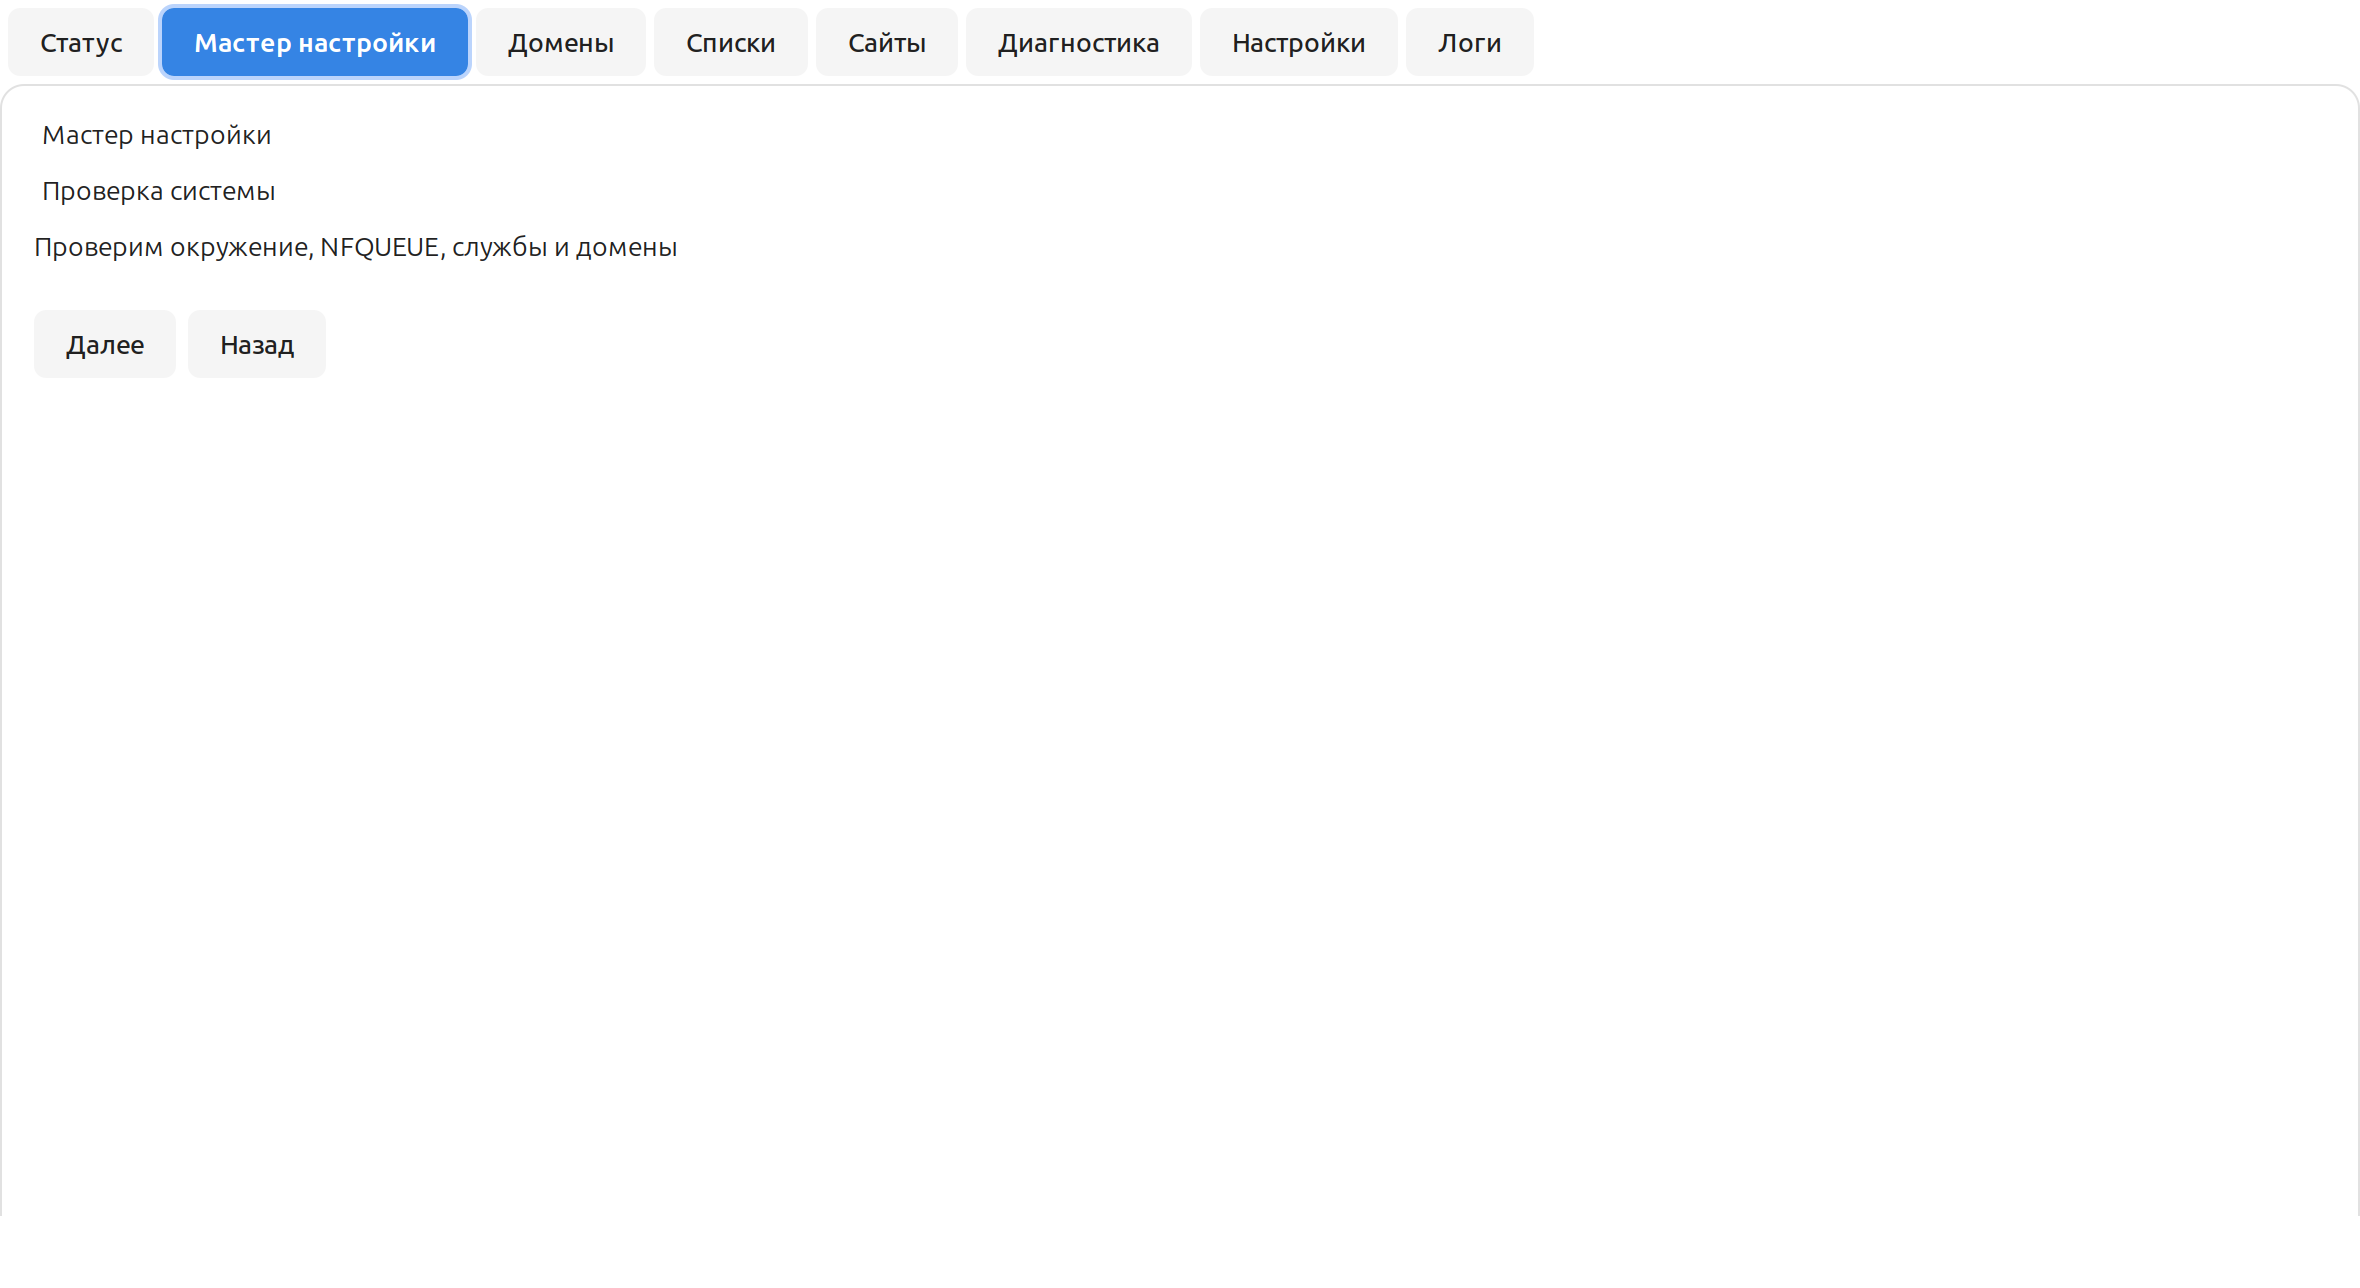
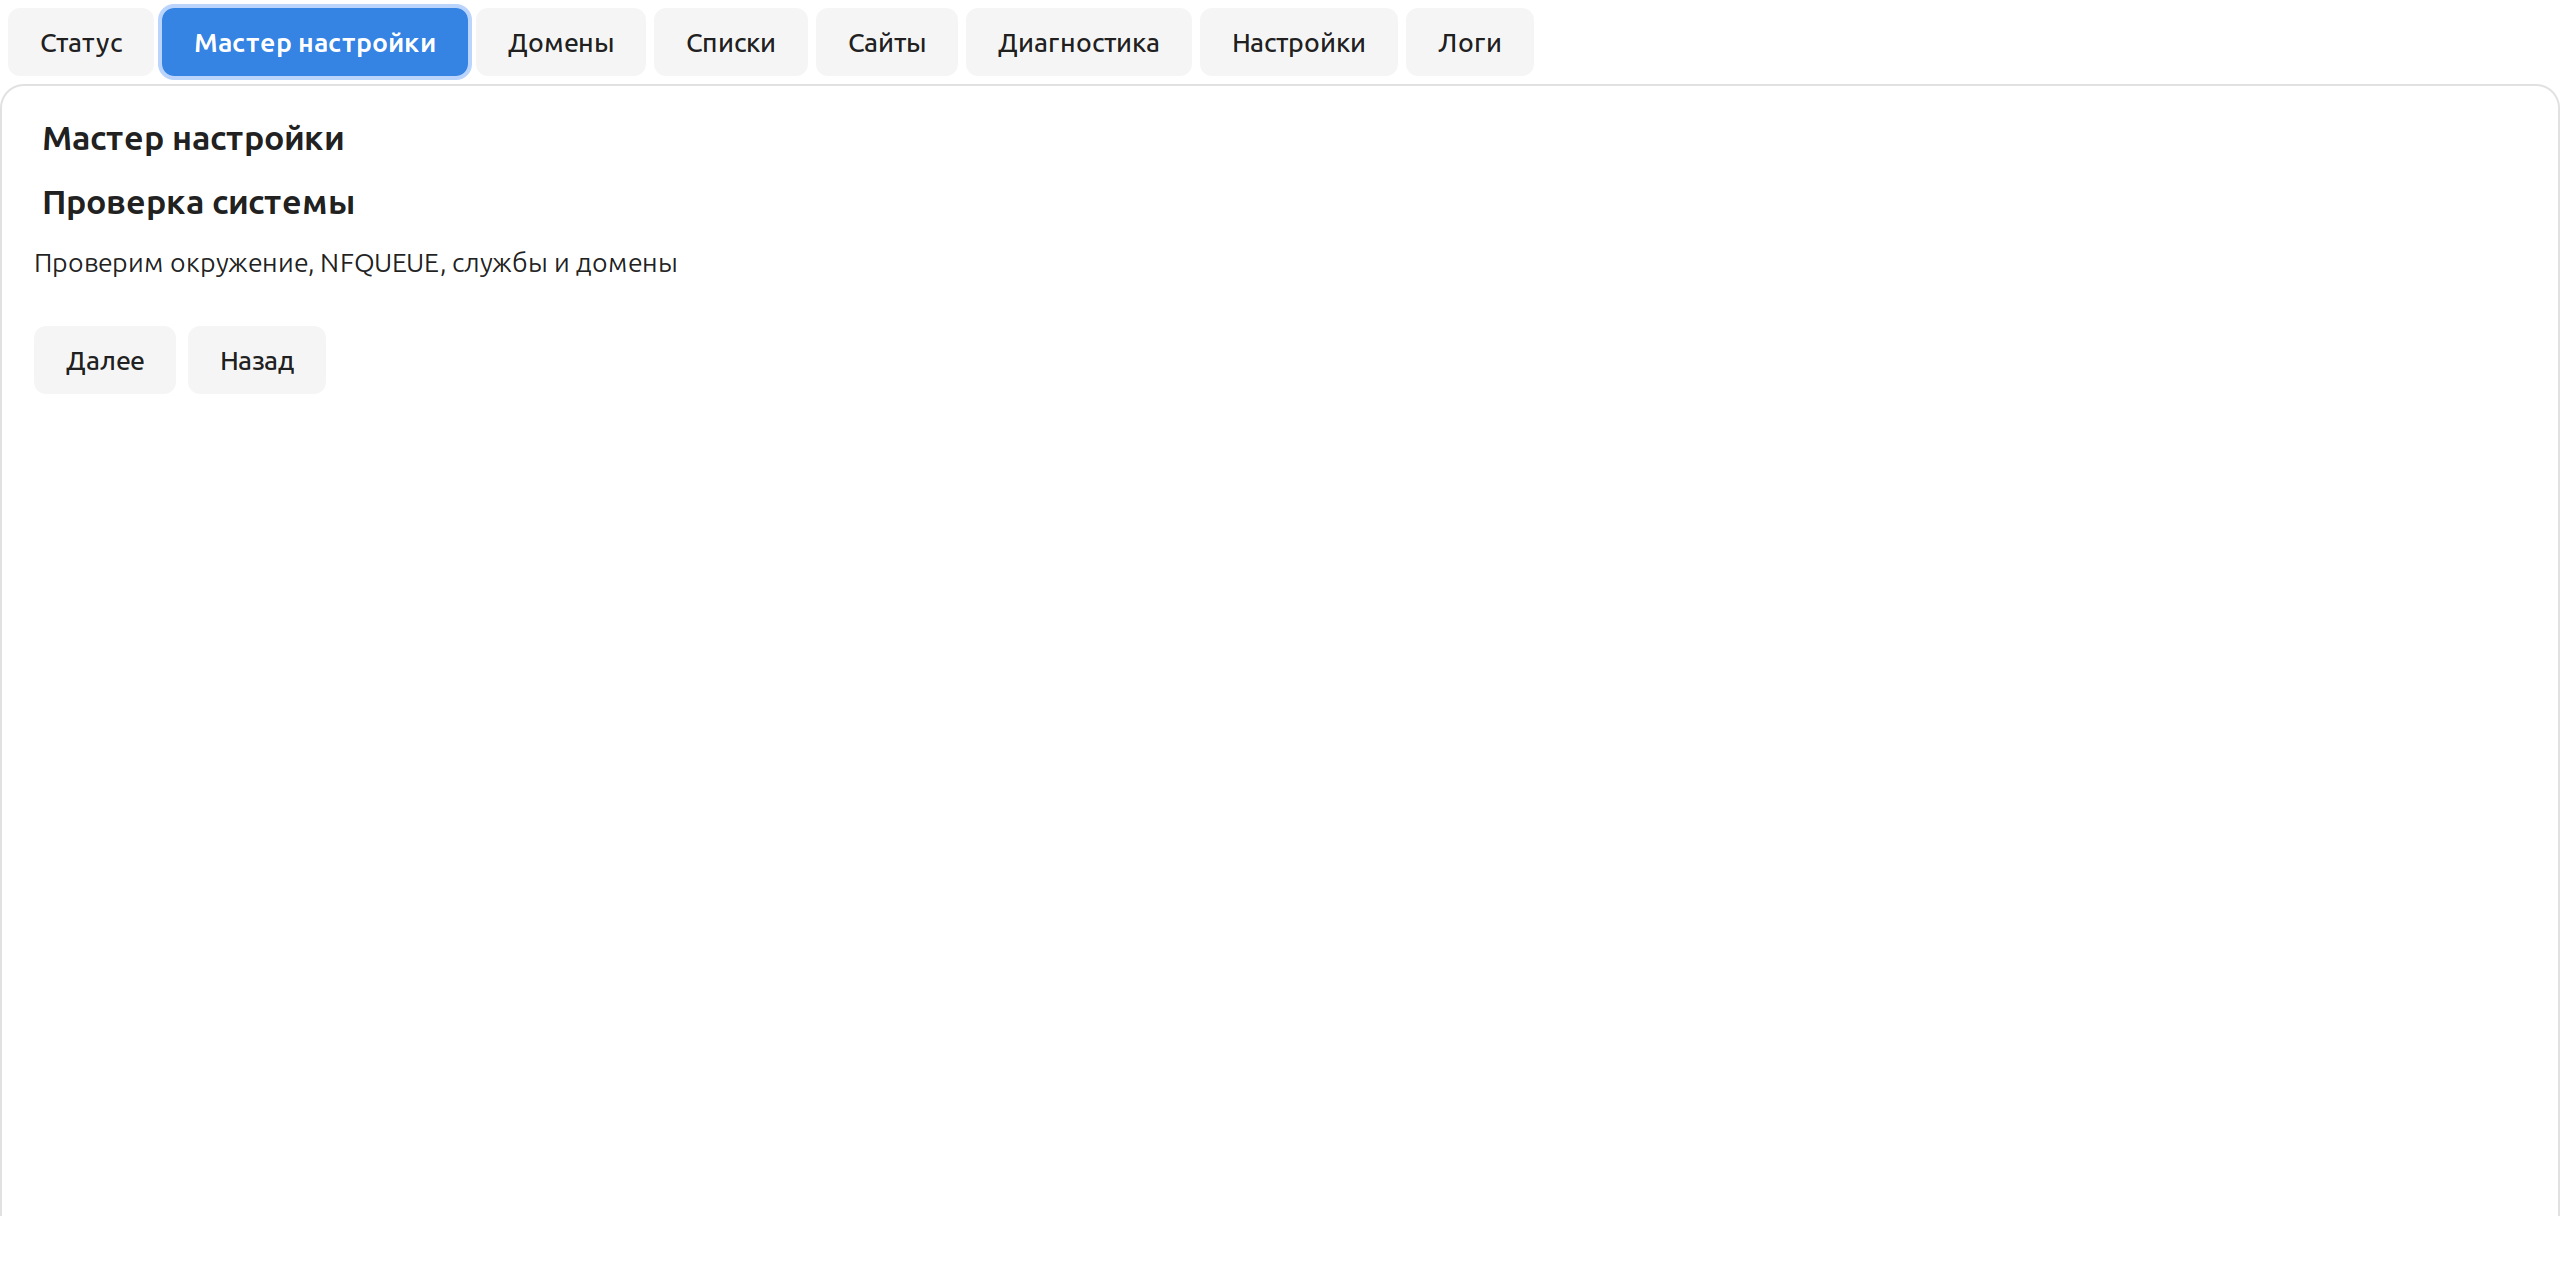
0.6.16: README и скриншоты приведены к актуальному состоянию

diff --git a/src/linfix/__init__.py b/src/linfix/__init__.py
@@ -2,7 +2,7 @@
 
 from __future__ import annotations
 
-__version__ = "0.6.15"
+__version__ = "0.6.16"
 APP_NAME = "linfix"
 
 __all__ = ["__version__", "APP_NAME"]

diff --git a/docs/DECISIONS.md b/docs/DECISIONS.md
@@ -963,3 +963,21 @@ H2 256 КБ через CF — OK, rutracker и Instagram открываются,
   пугало в диалоге. Теперь работающий zapret не считается препятствием.
 - Логика разбора секунд вынесена в `_pick_seconds_value()`: одно место для
   диалога, запуска и валидации (60…2100 с, мусор → значение из конфига).
+
+## D63. README приведён к актуальному состоянию (0.6.16)
+
+- Раздел «Что умеет» описывал подбор как «список строк для вставки, конфиг
+  не меняется». Теперь там три шага: подбор → проверка телом → применение
+  с бэкапом.
+- В «Логи» добавлена кнопка копирования, в CLI — `updates` и `net`.
+- Число тестов в инструкции сборки исправлено (386 → 501).
+- Добавлен раздел «Подбор стратегии: как ускорили» с таблицей «было/стало»
+  и ссылкой на `docs/SPEEDUP-SCAN.md`.
+- Расширен раздел про IPv6-заглушки: где они видны в панели (плашка на
+  «Статусе», строки в «Диагностике»), и что кнопки нет при активном VPN.
+- Скриншоты пересняты на 0.6.15: жирные заголовки, таблица найденных
+  стратегий, поле «секунд», плашка обновлений. Добавлен скриншот блока
+  подбора. Из снимка «Настройки» **удалён реальный secret** `tg://` — в
+  публичном репозитории ему не место; вместо значения подставлено
+  `<скрыт>`. Из снимка «Статус» убраны технические ошибки сети/лимита
+  GitHub, чтобы README не показывал случайные сбои.

diff --git a/packaging/debian/README.md b/packaging/debian/README.md
@@ -19,7 +19,7 @@ make deb
 ## Установка
 
 ```sh
-sudo apt install ./dist/linfix_0.6.15_all.deb
+sudo apt install ./dist/linfix_0.6.16_all.deb
 ```
 
 Зависимости: `python3-gi`, `gir1.2-gtk-3.0`, `nftables`, `curl`,
